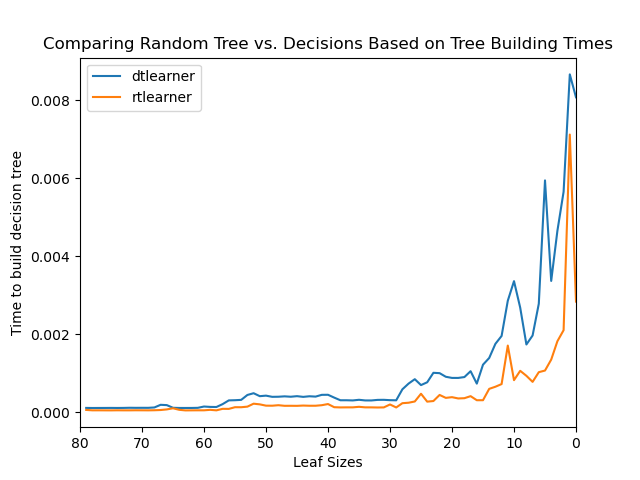
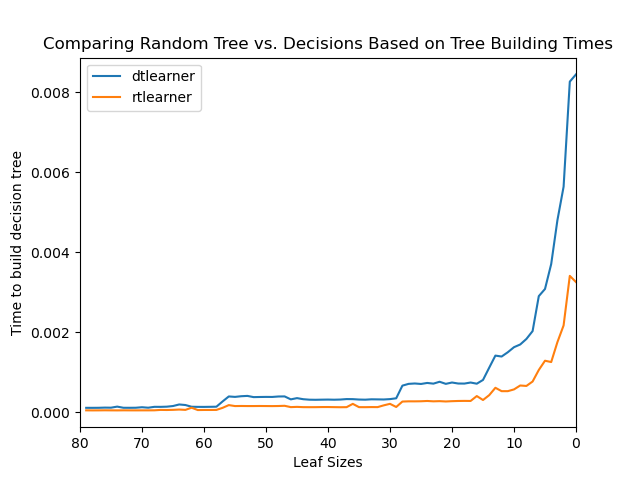
update

diff --git a/ML4T/assess_learners/testlearner.py b/ML4T/assess_learners/testlearner.py
@@ -256,7 +256,7 @@ if __name__ == "__main__":
     learners = np.empty((2, 50), dtype=object)  # row 1 = DT, row 2 = RT
 
     # model inits
-    for i in range(25):
+    for i in range(50):
         # leaf sie
 
         leaf_sizes[0, i] = i
